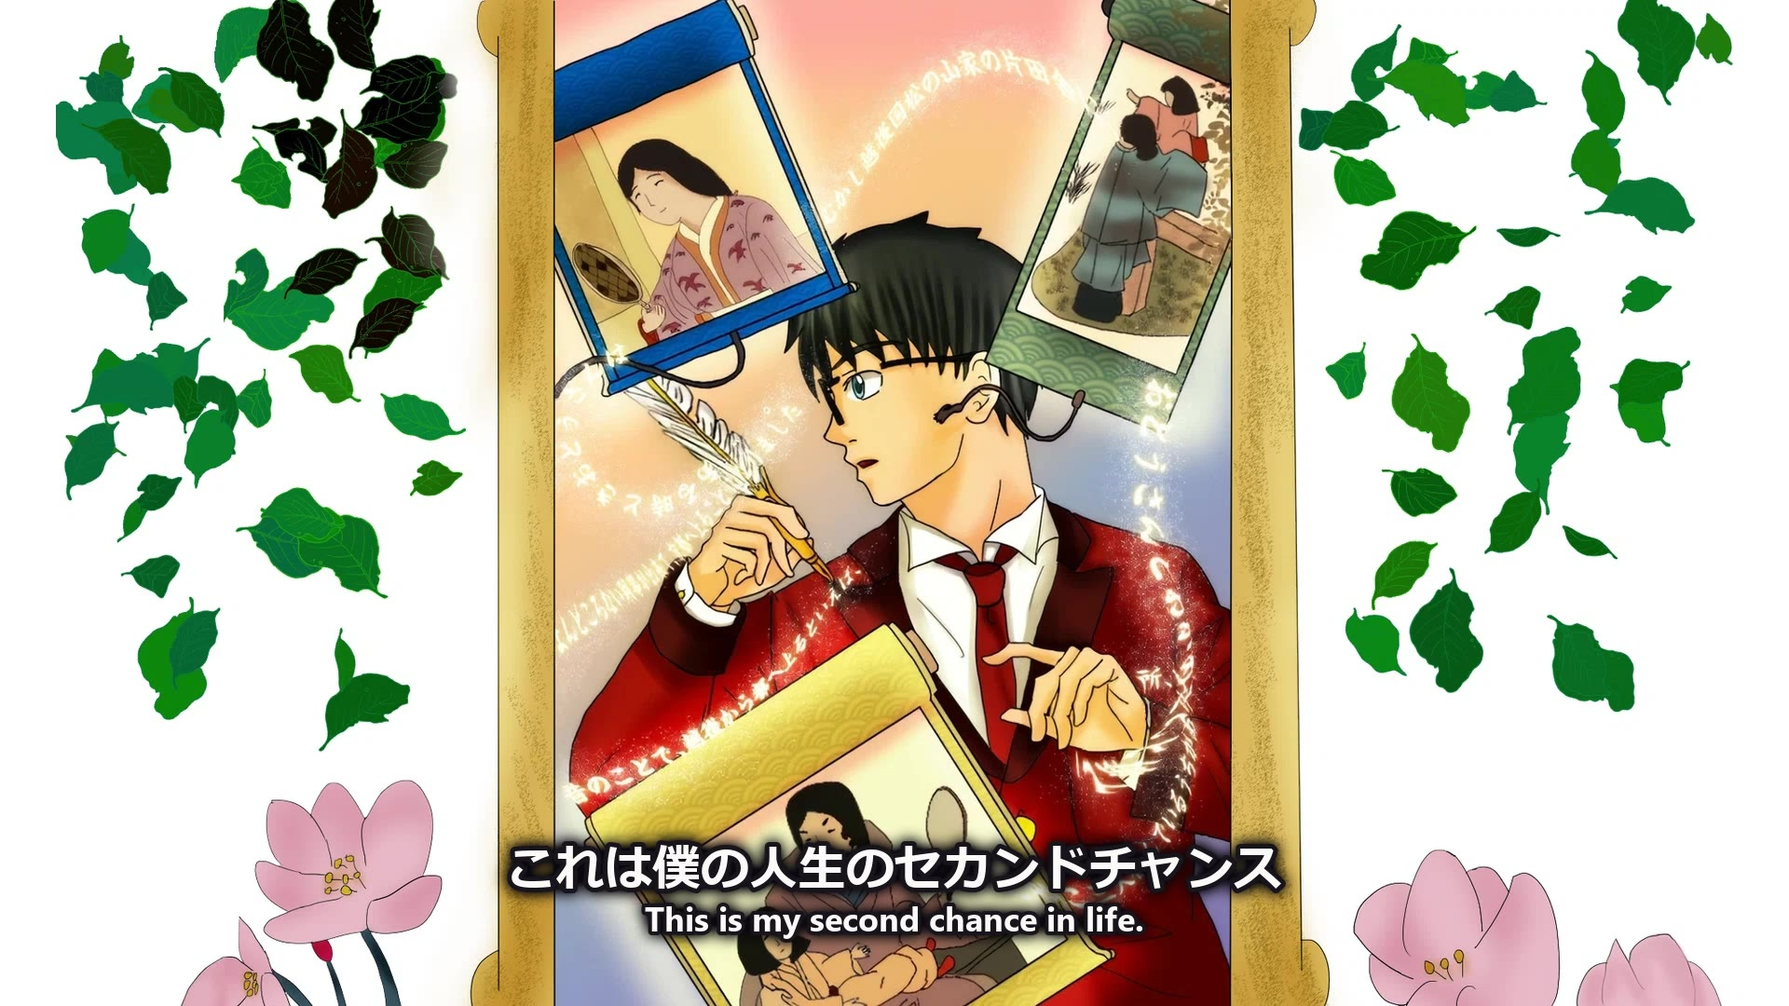
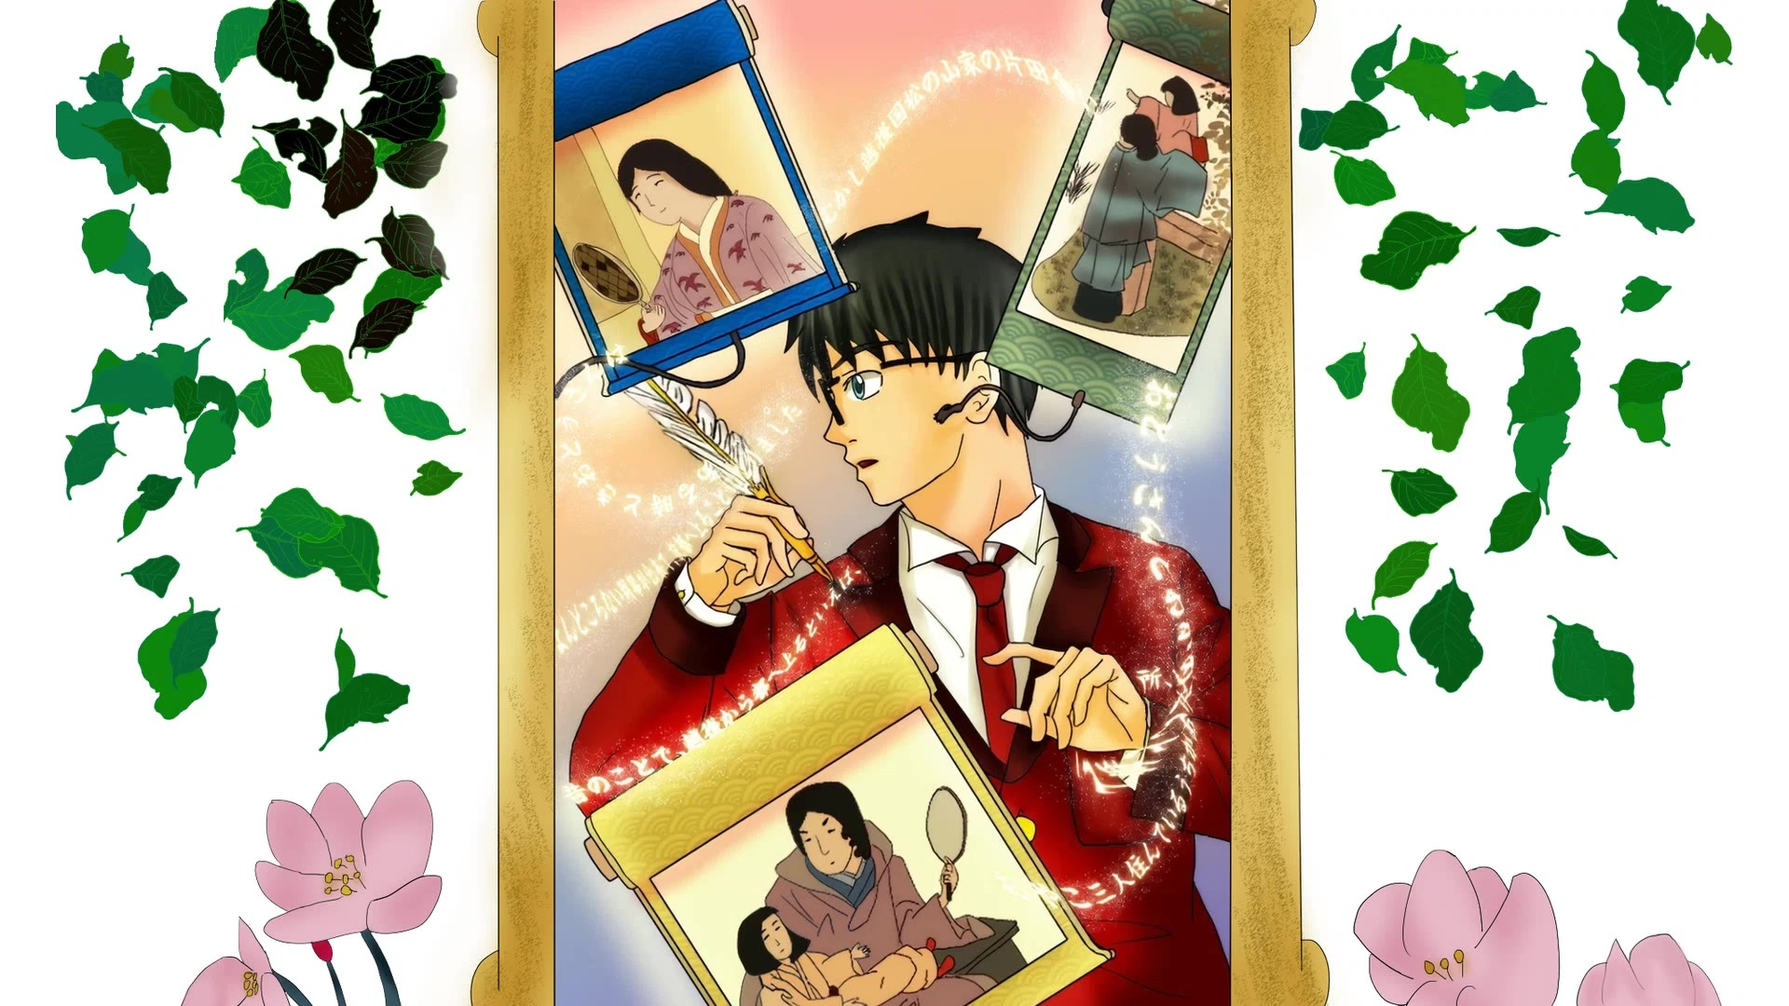
Add the Music Generation MCP server; MV art across the site
New projects/music-generation.html with the theme song embedded from the
media release, release notes from the server CHANGELOG, and cards on the
homepage and projects index. Swaps the anime card art and prototype-2's
teaser to the new landscape MV.

Changed region(s): [[0.2812, 0.825, 0.7188, 0.9472]]

diff --git a/projects/music-generation.html b/projects/music-generation.html
@@ -1,0 +1,289 @@
+<!doctype html>
+<html lang="en">
+  <head>
+    <meta charset="utf-8" />
+    <meta name="viewport" content="width=device-width, initial-scale=1" />
+    <meta name="description" content="A local MCP server that generates BGM and Japanese theme songs for my webcomic trailers. ACE-Step 1.5 through ComfyUI on a 6GB laptop GPU — faster than real time, with a beat grid so trailer cuts land on downbeats." />
+
+    <!-- Open Graph / Twitter: controls how a shared link previews in Discord,
+         Slack, Bluesky, etc. og:image must be an absolute URL. -->
+    <meta property="og:site_name" content="Tobias Fong" />
+    <meta property="og:type" content="article" />
+    <meta property="og:url" content="https://tobiasfong.github.io/projects/music-generation.html" />
+    <meta property="og:title" content="Music Generation MCP Server | Tobias Fong" />
+    <meta property="og:description" content="A local MCP server that generates BGM and Japanese theme songs for my webcomic trailers. ACE-Step 1.5 through ComfyUI on a 6GB laptop GPU — faster than real time, with a beat grid so trailer cuts land on downbeats." />
+    <meta property="og:image" content="https://tobiasfong.github.io/img/og/og-music-generation.jpg" />
+    <meta property="og:image:width" content="1200" />
+    <meta property="og:image:height" content="630" />
+    <meta name="twitter:card" content="summary_large_image" />
+    <meta name="twitter:title" content="Music Generation MCP Server | Tobias Fong" />
+    <meta name="twitter:description" content="A local MCP server that generates BGM and Japanese theme songs for my webcomic trailers. ACE-Step 1.5 through ComfyUI on a 6GB laptop GPU — faster than real time, with a beat grid so trailer cuts land on downbeats." />
+    <meta name="twitter:image" content="https://tobiasfong.github.io/img/og/og-music-generation.jpg" />
+    <title>Music Generation MCP Server | Tobias Fong</title>
+    <link rel="stylesheet" href="/style.css" />
+    <link rel="icon" type="image/jpeg" href="/img/rowlet-logo.jpg" />
+</head>
+
+  <body>
+  <nav class="project-nav">
+    <div class="project-nav-inner">
+      <a href="/" class="project-nav-logo"><img src="/img/rowlet-logo.jpg" alt="Home" style="width:32px;height:32px;border-radius:50%;object-fit:cover;display:block;" /></a>
+      <div class="project-nav-links">
+        <a href="/projects/">← Projects</a>
+        <a href="/#contact">Contact</a>
+      </div>
+    </div>
+  </nav>
+
+    <main class="container project-content">
+      <p class="breadcrumb">
+        <a href="/projects/">← Back to Projects</a>
+      </p>
+
+      <header class="project-hero" style="text-align:center; padding: 3rem 0 2rem;">
+        <div class="section-kicker">MCP Server Project</div>
+        <h1>Music Generation MCP Server</h1>
+        <p class="lead" style="max-width: 640px; margin: 0 auto 1.5rem;">
+          A local MCP server that generates BGM and Japanese theme songs for my webcomic trailers — on the
+          same 6&nbsp;GB laptop GPU as everything else in the toolkit.
+        </p>
+        <div style="display:flex; gap:10px; justify-content:center; flex-wrap:wrap;">
+          <span class="tag" style="background: var(--text); color: var(--bg);">MCP Server</span>
+          <span class="tag">Python</span>
+          <span class="tag">ACE-Step 1.5</span>
+          <span class="tag">ComfyUI</span>
+          <span class="tag">NumPy</span>
+          <span class="tag">Built with Claude</span>
+        </div>
+      </header>
+
+      <!-- The result -->
+      <section style="max-width: 720px; margin: 0 auto 3rem;">
+        <div class="section-kicker" style="text-align:center;">The Result</div>
+        <h2 style="text-align:center;">「セカンドチャンス」</h2>
+        <p style="color: var(--text-body); line-height: 1.7; text-align:center; margin: 0 auto 1.5rem;">
+          <em>Reincarnator × Regressor</em>'s theme song, in Japanese — the first real thing this server made.
+          It replaced a Suno track whose vocal I was never happy with. Settled after six rounds of listening
+          across nineteen takes: about 28 minutes of GPU time, and zero dollars.
+        </p>
+        <figure style="margin:0;">
+          <audio
+            src="https://github.com/tobiasfong/tobiasfong.github.io/releases/download/media-v1/second-chance.mp3"
+            controls
+            preload="none"
+            style="width:100%; display:block;"
+          ></audio>
+          <figcaption style="font-size: var(--fs-caption); color:var(--text-muted); margin-top:0.75rem; text-align:center;">
+            107 seconds · 150 BPM · B minor · 4/4 · generated locally. The song is unreleased, so the lyrics
+            aren't published here — but I wrote them.
+          </figcaption>
+        </figure>
+      </section>
+
+      <!-- Background -->
+      <section class="editorial-split">
+        <div class="split-media">
+          <img src="/img/music-card.jpg" alt="A still from the Reincarnator x Regressor music video the theme song was written for"
+            style="width:100%; border-radius:12px; margin-top:1.25rem; display:block;" loading="lazy" />
+        </div>
+        <div style="padding-top: 2rem;">
+          <div class="section-kicker">Background</div>
+          <h2>The one step I was still outsourcing</h2>
+          <p>
+            Every other piece of this ecosystem runs on my own GPU at zero cost — backgrounds, characters,
+            parallax, video. Music was the exception. The
+            <a href="/projects/anime-production.html">anime production skill</a> could always <em>play</em> an
+            mp3, but never <em>make</em> one, and that mp3 came from Suno: a paid cloud service, the same
+            category as Kling for video.
+          </p>
+          <p>
+            It was also the only part of a trailer I couldn't iterate on freely, because every attempt cost
+            money. That's a worse constraint than it sounds. You don't stop at the take you like; you stop at
+            the take you can justify paying for again.
+          </p>
+          <p>
+            This closes that gap. Theme songs and BGM now generate locally on the same 6&nbsp;GB laptop GPU as
+            everything else.
+          </p>
+        </div>
+      </section>
+
+      <!-- How it works -->
+      <section style="max-width: 720px; margin: 0 auto 3rem;">
+        <div class="section-kicker">How It Works</div>
+        <h2>ACE-Step, through ComfyUI</h2>
+        <p>
+          ACE-Step is the only strong open model that does songs <em>with vocals</em> — MusicGen and Stable
+          Audio Open are instrumental-only, which is fine for BGM and useless for a theme song. It runs
+          through ComfyUI, which has supported it natively since v0.25, so there's nothing to install but the
+          model weights. That made it a materially easier setup than the local video path, which needed
+          third-party loaders.
+        </p>
+        <p>
+          The server takes style tags, lyrics, tempo, key, time signature and language, and returns a lossless
+          FLAC to archive plus a 320k MP3 the Remotion pipeline can drop straight in. It also emits a beat
+          grid, so trailer cuts land on downbeats rather than wherever the edit happened to fall.
+        </p>
+        <p>
+          It runs <strong>faster than real time</strong> — a 107-second track renders in about 90 seconds at
+          roughly 5.9&nbsp;GB of VRAM. That changes how you work with it. Instead of agonising over one
+          attempt, you generate five and pick the performance you like.
+        </p>
+      </section>
+
+      <!-- Walkthrough -->
+      <section style="max-width: 720px; margin: 0 auto 3rem;">
+        <div class="section-kicker">What I Learned</div>
+        <h2>The interesting part wasn't the generation — it was working out what the controls do</h2>
+        <ul style="color: var(--text-body); line-height: 1.9;">
+          <li>
+            <strong>Lyric density is arithmetic, and it's the master control.</strong> One bar is
+            <code>4 × 60 / bpm</code> seconds. Divide the track's bars by its sung lines: land near
+            <strong>2.3 bars per line</strong> and lines get sung as lines. At 4.7 they stretch into fragments
+            with gaps. Below 2 they run together, and trailing lines get silently dropped.
+          </li>
+          <li>
+            <strong>Instrumental sections aren't free duration.</strong> They compete with the lyric for the
+            same bars. Adding an intro, three interludes and an outro to an 85-second track quietly truncated
+            the song at line 10 of 16.
+          </li>
+          <li>
+            <strong>Asking for a relative minor does nothing.</strong> I picked B minor to keep the mood
+            "related" to the D major I had. B minor <em>is</em> D major's seven notes — that's what a relative
+            pair is. Sharing a pitch collection is exactly what made it unable to sound less bright.
+          </li>
+          <li>
+            <strong>Some things aren't controllable at all.</strong> Vocal register ignores the prompt: five
+            takes at identical settings returned one female vocal and one noticeably high-pitched, despite
+            explicit deep male baritone tags. Sample and pick; don't tune.
+          </li>
+        </ul>
+      </section>
+
+      <!-- Why use this -->
+      <section style="max-width: 720px; margin: 0 auto 3rem;">
+        <div class="section-kicker">Why use this?</div>
+        <h2>Because iteration being free changes what you'll settle for</h2>
+        <p>
+          Local, free, and unlimited. No subscription, no per-generation cost, and no terms-of-service
+          question about who owns the output. Because iteration costs nothing, you can chase a specific
+          feeling across a dozen takes rather than accepting the first usable one.
+        </p>
+        <p>
+          The honest limit: no statistic tells you whether a vocal is any good. The tooling measures tempo,
+          key and structure; the ear does the rest. That's a human-in-the-loop workflow by design, same as the
+          rest of the ecosystem — the tools narrow the search, the author still chooses.
+        </p>
+      </section>
+
+      <!-- Release notes -->
+      <section style="max-width: 720px; margin: 0 auto 3rem;">
+        <div class="section-kicker">Release Notes</div>
+        <h2>What's new</h2>
+
+        <div class="pill-card" style="margin-top: 1.5rem;">
+          <h3 style="margin-top:0; display:flex; align-items:baseline; gap:0.6rem;">
+            <span style="font-family:var(--mono,monospace); color:var(--text);">v0.2.0</span>
+            <span style="font-size:13px; font-weight:500; color:var(--text-muted);">Beat grids without Node, and a settled theme song</span>
+          </h3>
+          <p style="font-size:13px; color:var(--text-muted); margin-top:-0.4rem;">August 6, 2026</p>
+          <ul style="color: var(--text-body); line-height: 1.8;">
+            <li><strong>🥁 Changed — beat extraction is pure Python now.</strong> It was a Node script
+              that shelled out to ffmpeg; it's now NumPy and <code>soundfile</code>, which bundles
+              libsndfile, so neither dependency is needed at all. Same output schema, so it's still a
+              Remotion drop-in. On the winning track: 268 beats, 67 downbeats, a 1.600&nbsp;s bar — and
+              67 bars is <em>exactly</em> what the density arithmetic predicted for 107 seconds, which
+              is a nice independent check on the maths above.</li>
+            <li><strong>📐 Changed — tempo comes from the recipe, not from detection.</strong> When a
+              track was generated here, the BPM was an input. Detecting it again can only be worse.</li>
+            <li><strong>🎼 Added — reference analysis.</strong> Measures the BPM and key of any
+              mp3/flac/wav so those parameters come from measurement rather than guesswork. It can't
+              separate relative major/minor pairs — nothing chroma-based can — and says so when it sees
+              one. That limitation is what proved requesting "B minor" returns D major's pitch
+              collection.</li>
+            <li><strong>✅ Added — <code>approve_track</code> / <code>forget_track</code>.</strong> Track
+              ids carry a timestamp so auditioning can't clobber a good take. Approving publishes the
+              winner under a <code>FINAL_</code> name, which the toolkit's "never delete an approved
+              FINAL_" rule then covers automatically — and <code>forget_track</code> refuses an approved
+              take in code. Worth having: 22 tracks were script-deleted in that same session.</li>
+            <li><strong>🔒 Fixed — a near-miss, one command before the first push.</strong> The
+              <code>.gitignore</code> had an exception to preserve the track manifest — but recipes embed
+              lyrics, and the repo is public, so it would have published my unreleased song text. The
+              output folder is ignored wholesale now, with the reason recorded in the file.</li>
+          </ul>
+        </div>
+
+        <p class="release-archive-label">Earlier releases</p>
+
+        <details class="release-item">
+          <summary>
+            <span class="release-ver">v0.1.0</span>
+            <span class="release-name">First cut — and 6 GB turned out to be enough</span>
+            <span class="release-date">August 6, 2026</span>
+          </summary>
+          <ul style="color: var(--text-body); line-height: 1.8;">
+            <li><strong>🎤 Six tools</strong> — generate a track, generate variations, list and fetch
+              tracks, extract a beat grid, check status. Plus a standalone CLI driver for sweeping
+              settings without MCP in the way.</li>
+            <li><strong>🧠 ACE-Step 1.5 over 1.0.</strong> 1.5 is the <em>bigger</em> download (10.0 GB
+              against 7.7), because it needs two text encoders rather than one. Chosen anyway: it's the
+              only variant with an explicit <code>language</code> input, and Japanese vocals were the
+              whole point. 1.0 has no way to declare a language and infers it from the lyric script.</li>
+            <li><strong>💾 6 GB is enough — verified, not assumed.</strong> The plan said "assume
+              quantisation will be needed." No quantisation exists or is needed; ComfyUI streams the
+              bf16 weights. Peak ~5.9 GB for a two-minute track, no OOM. <code>--lowvram</code> made no
+              measurable difference either way, so it's off.</li>
+            <li><strong>⏱ Faster than real time</strong>, which inverted the assumption that auditioning
+              would be expensive. Five variations take about nine minutes.</li>
+            <li><strong>🎧 Both formats from one sampling pass</strong> — lossless FLAC to keep, MP3 for
+              the video pipeline. The extra encode is free next to the sampling.</li>
+            <li><strong>🧪 28 offline checks</strong>, no GPU required.</li>
+          </ul>
+        </details>
+      </section>
+
+      <!-- Ecosystem -->
+      <section style="max-width: 720px; margin: 0 auto 3rem;">
+        <div class="section-kicker">Ecosystem</div>
+        <h2>The last outsourced step in the pipeline</h2>
+        <p>
+          This is the newest piece of a wider webcomic and animation toolkit: the
+          <a href="/projects/mcp-background.html">Background Generator</a> for scenery, the
+          <a href="/projects/character-panel.html">Character &amp; Panel Generator</a> for consistent figures,
+          <a href="/projects/novel-translation.html">Novel Translation</a> for the Japanese edition, and
+          <a href="/projects/anime-production.html">Anime Production</a> for the video itself — with a speech
+          bubble server still to come. With music in place, a trailer can now be made end to end without a
+          single paid service: art, song, animation, all on one machine.
+        </p>
+      </section>
+
+      <!-- Get it -->
+      <section style="display:flex; justify-content:center; margin: 0 auto 3rem;">
+        <div class="pill-card" style="max-width:640px; width:100%;">
+          <div class="section-kicker">For everyone's use</div>
+          <h2>Get the server</h2>
+          <p>
+            It's open source (MIT), like the rest of the toolkit. Ask your AI harness to clone the
+            <code>webcomic-toolkit</code> repository and follow the setup docs in
+            <a href="https://github.com/tobiasfong/webcomic-toolkit/tree/master/servers/music-generation-mcp" target="_blank" rel="noopener noreferrer">music-generation-mcp</a>.
+            You'll need ComfyUI and the ACE-Step weights; there are no custom nodes to install, and a 6&nbsp;GB
+            card is enough.
+          </p>
+          <a class="button" href="https://github.com/tobiasfong/webcomic-toolkit/tree/master/servers/music-generation-mcp" target="_blank" rel="noopener noreferrer">
+            View the code on GitHub →
+          </a>
+        </div>
+      </section>
+
+    </main>
+
+  <footer class="project-footer">
+    <div class="project-nav-inner">
+      <span style="font-size:12px;color:var(--text-muted);">© 2026 Tobias Fong</span>
+      <span style="font-size:12px;color:var(--text-muted);">Built with Claude</span>
+    </div>
+  </footer>
+
+    <script src="/script.js"></script>
+  </body>
+</html>

diff --git a/projects/prototype-2.html b/projects/prototype-2.html
@@ -252,24 +252,26 @@
       <section style="max-width: 720px; margin: 3rem auto 0; text-align:center;">
         <div class="section-kicker">Teaser</div>
         <h2>The full teaser MV</h2>
-        <p style="color: var(--text-body); line-height: 1.7; max-width: 600px; margin: 0 auto 1.5rem;">
-          All of the above — the illustrations and their parallax clips — assembled into a 37-second teaser,
-          scored with an original track. Made with my
-          <a href="/projects/anime-production.html">Anime Production Skill</a>. (Sound on — tap to play.)
+        <p style="color: var(--text-body); line-height: 1.7; max-width: 620px; margin: 0 auto 1.5rem;">
+          All of the above — the illustrations and their parallax clips — assembled into a 1:47 music video
+          where the art genuinely moves, cut to the beat of its own theme song. Both the animation and the
+          song were made on my own machine, with
+          <a href="/projects/anime-production.html">Anime Production</a> and
+          <a href="/projects/music-generation.html">Music Generation</a>. (Sound on — tap to play.)
         </p>
         <figure style="margin: 0; display:flex; justify-content:center;">
           <video
-            src="https://github.com/tobiasfong/tobiasfong.github.io/releases/download/media-v1/rxr-teaser.mp4"
-            poster="/img/rxr-teaser-poster.jpg"
+            src="https://github.com/tobiasfong/tobiasfong.github.io/releases/download/media-v1/rxr-mv.mp4"
+            poster="/img/rxr-mv-poster.jpg"
             controls
             playsinline
             preload="metadata"
-            style="width:100%; max-width:340px; border-radius:16px; box-shadow: 0 12px 40px rgba(0,0,0,0.18); display:block;"
+            style="width:100%; max-width:720px; border-radius:16px; box-shadow: 0 12px 40px rgba(0,0,0,0.18); display:block;"
           ></video>
         </figure>
         <p style="font-size:13px; color:var(--text-muted); margin-top:1rem;">
-          Story · Illustrations · Lyrics: Tanaka Tomoyuki &nbsp;·&nbsp; Animation: Claude Code &nbsp;·&nbsp;
-          Music: Suno (「セカンドチャンス」)
+          Story · Illustrations · Lyrics: Tanaka Tomoyuki &nbsp;·&nbsp; Animation &amp; Music: Claude Code
+          &nbsp;·&nbsp; Made with Webcomic Toolkit (open source)
         </p>
       </section>
 

diff --git a/projects/index.html b/projects/index.html
@@ -155,7 +155,7 @@
       </a>
 
       <a class="projects-card" href="/projects/anime-production.html">
-        <img class="projects-card-img" src="/img/rxr-teaser-poster.jpg" alt="Anime Production — a still from the Reincarnator x Regressor teaser" />
+        <img class="projects-card-img" src="/img/rxr-mv-poster.jpg" alt="Anime Production — a still from the Reincarnator x Regressor teaser" />
         <div class="projects-card-body">
           <div class="card-tags" style="display:flex;gap:6px;margin-bottom:4px;">
             <span class="tag">Agent Skill</span>
@@ -187,6 +187,18 @@
           </div>
           <h3>Character &amp; Panel Generator</h3>
           <p>A local MCP server that keeps a webcomic's characters looking like themselves — register your reference art once, then generate poses and finished panels that stay on-model.</p>
+        </div>
+      </a>
+
+      <a class="projects-card" href="/projects/music-generation.html">
+        <img class="projects-card-img" src="/img/music-card.jpg" alt="Music Generation MCP Server — a still from the Reincarnator x Regressor music video" />
+        <div class="projects-card-body">
+          <div class="card-tags" style="display:flex;gap:6px;margin-bottom:4px;">
+            <span class="tag">MCP Server</span>
+            <span class="tag">ACE-Step 1.5</span>
+          </div>
+          <h3>Music Generation MCP Server</h3>
+          <p>A local MCP server that generates BGM and Japanese theme songs for my webcomic trailers — the last step in the pipeline that still needed a paid service.</p>
         </div>
       </a>
 

diff --git a/index.html b/index.html
@@ -205,7 +205,7 @@
           </a>
 
           <a class="path-card" href="/projects/anime-production.html">
-            <div class="path-card-img" style="background-image:url('/img/rxr-teaser-poster.jpg');"></div>
+            <div class="path-card-img" style="background-image:url('/img/rxr-mv-poster.jpg');"></div>
             <div class="path-spacer"></div>
             <div class="path-panel-tag">04</div>
             <h3>Anime Production</h3>
@@ -237,6 +237,18 @@
             <div class="path-layers">
               <span>MCP Server</span>
               <span>AI Tooling</span>
+            </div>
+          </a>
+
+          <a class="path-card" href="/projects/music-generation.html">
+            <div class="path-card-img" style="background-image:url('/img/music-card.jpg');"></div>
+            <div class="path-spacer"></div>
+            <div class="path-panel-tag">07</div>
+            <h3>Music Generation MCP Server</h3>
+            <p>A local MCP server that generates BGM and Japanese theme songs for my webcomic trailers.</p>
+            <div class="path-layers">
+              <span>MCP Server</span>
+              <span>ACE-Step 1.5</span>
             </div>
           </a>
         </div>
